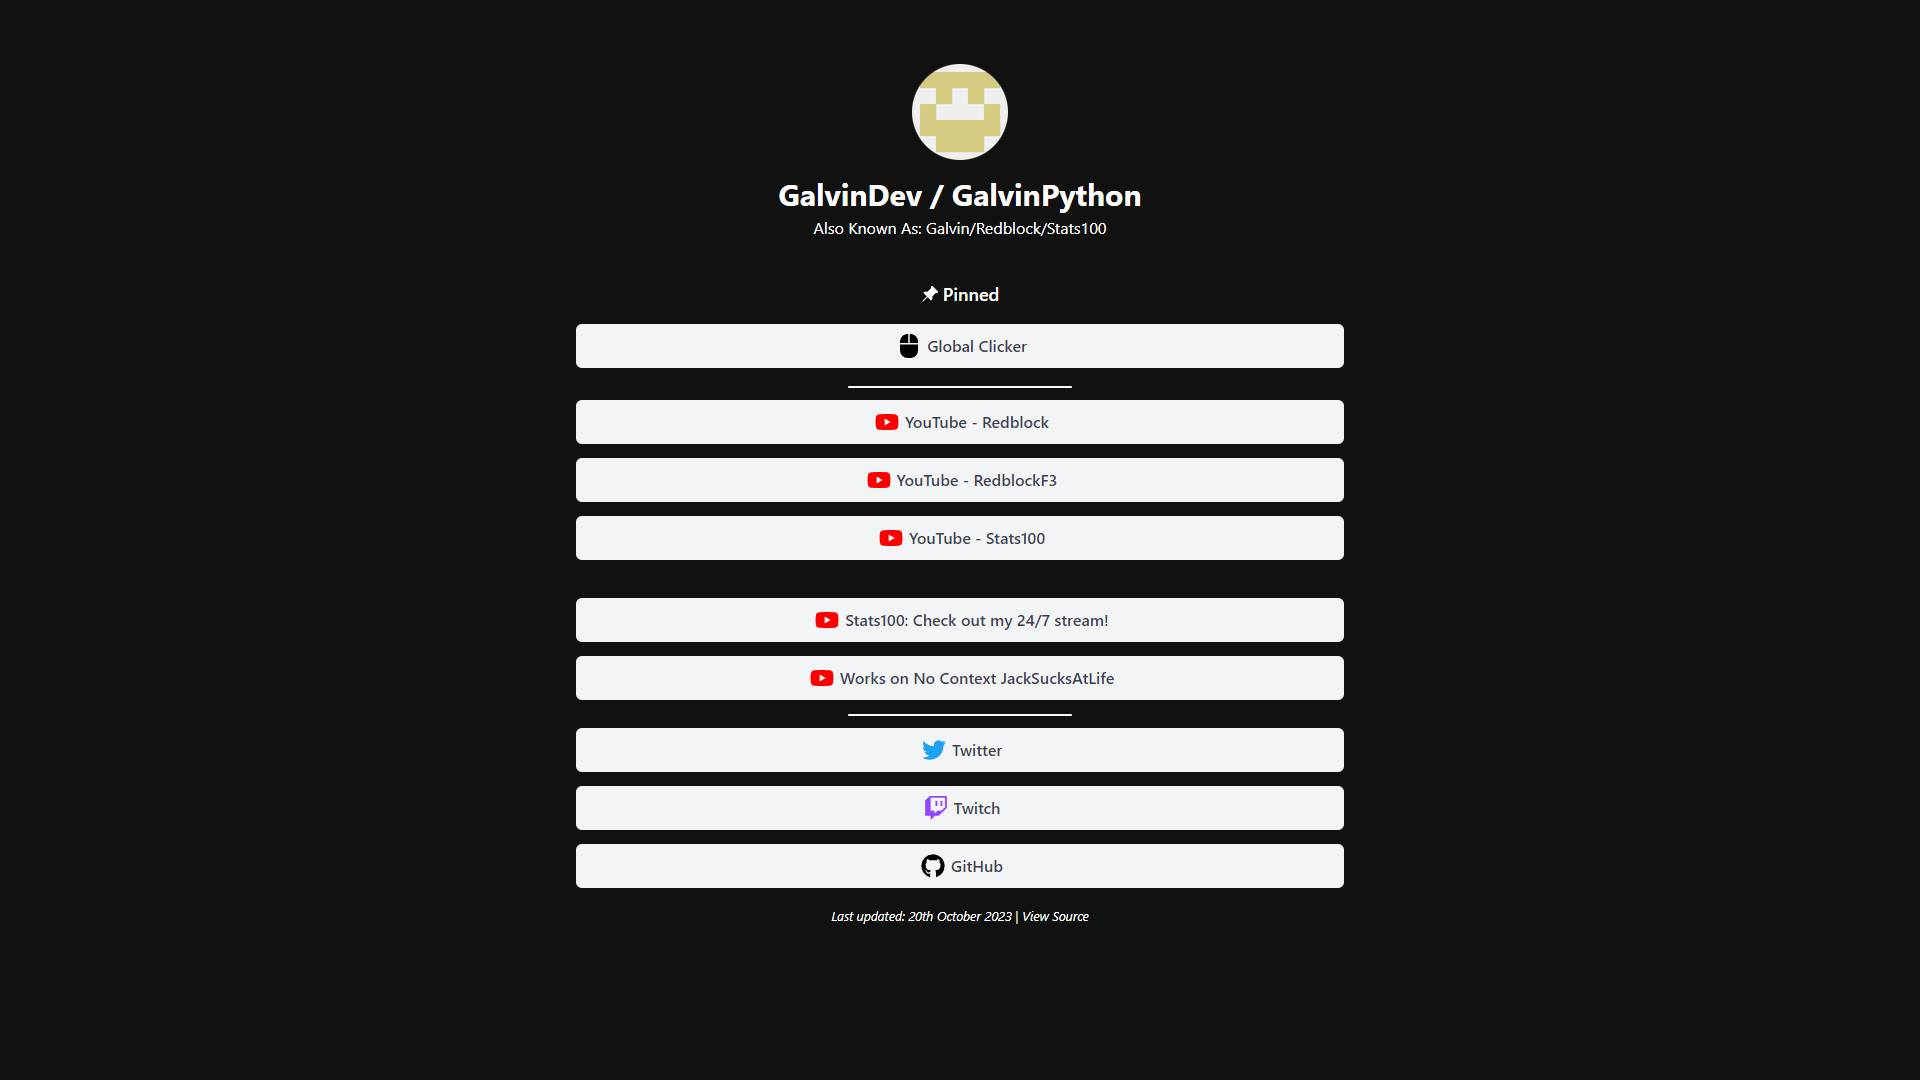
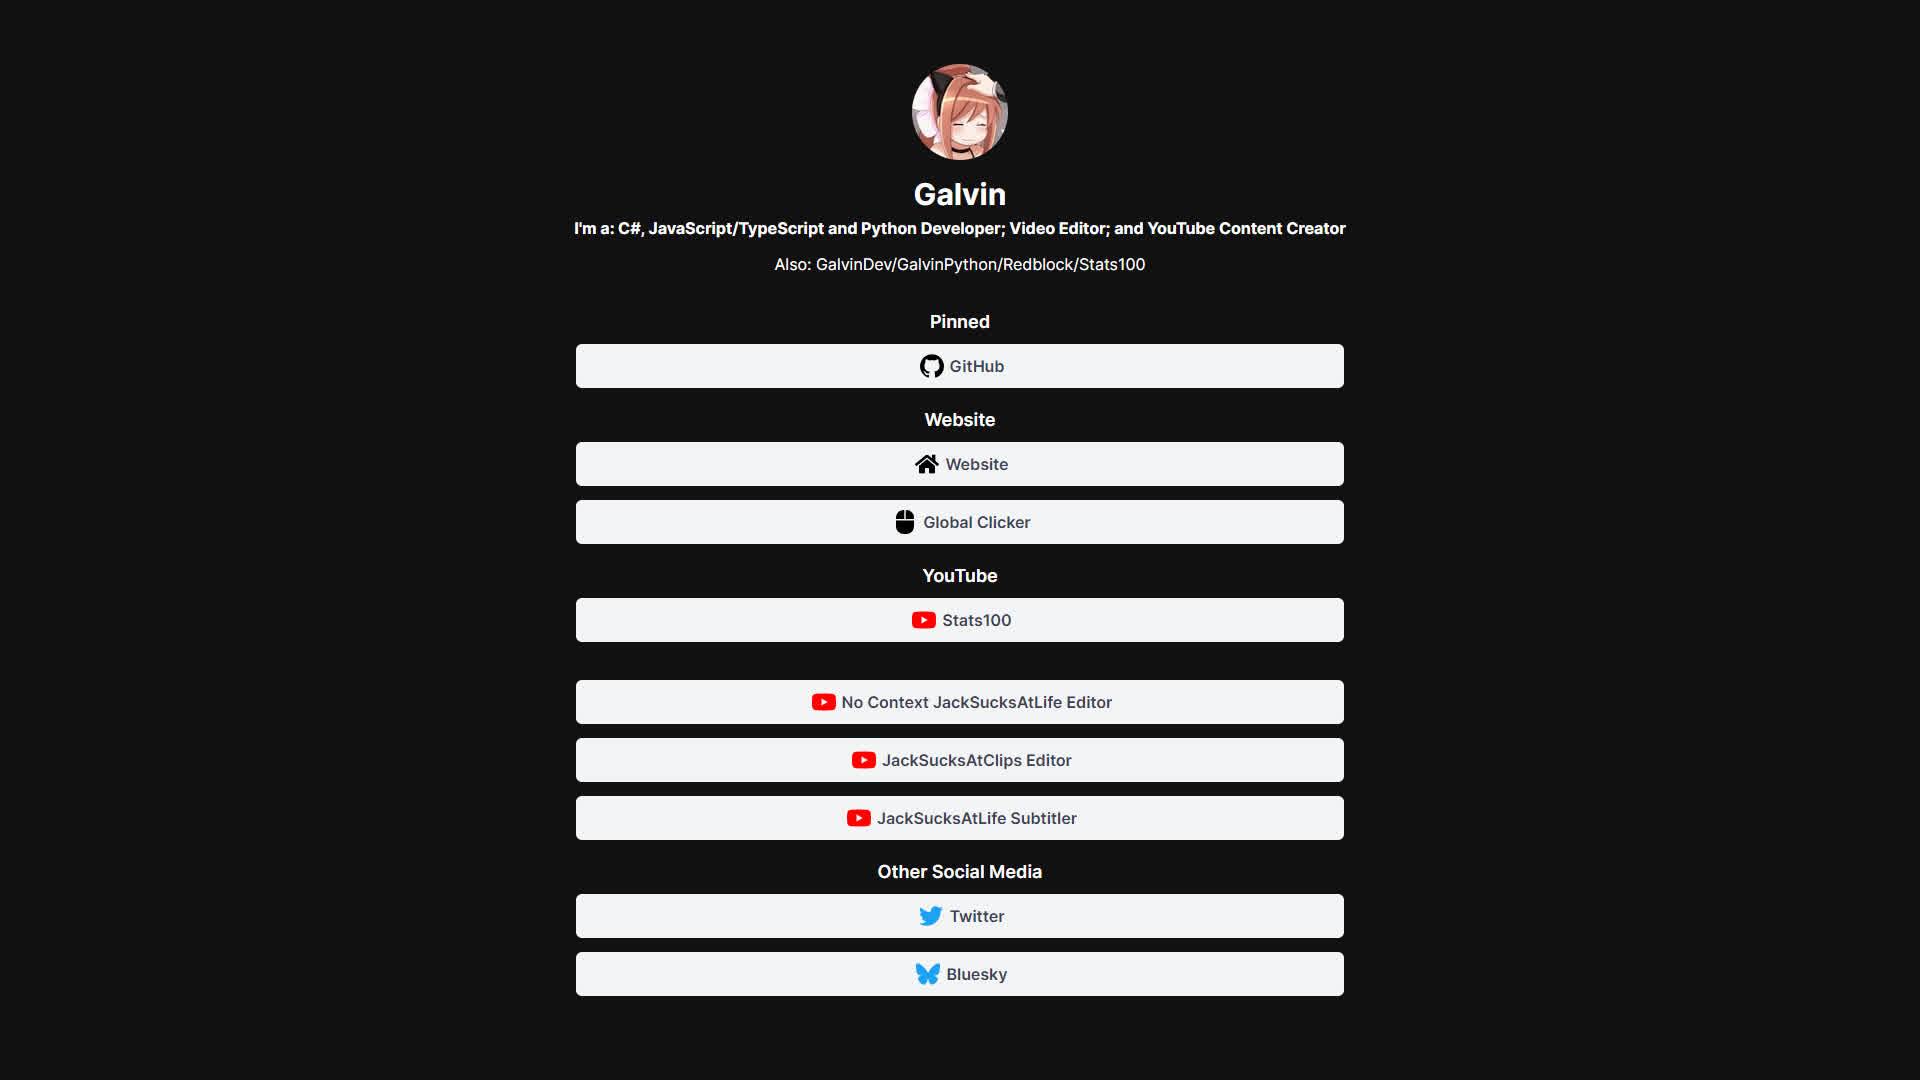
feat: changed site a bit
* Changed all Font Awesome icons to be Simple Icons where possible
* Titles are used instead of bold tags to seperate sections
* Updated profile image
* Added Bluesky icon
* Changed YouTube channels

Changed region(s): [[0.2812, 0.0611, 0.7188, 0.9472]]

diff --git a/README.md b/README.md
@@ -2,6 +2,13 @@
 Official GitHub repository for my [links site](https://links.galvindev.me.uk)  
 
 # Changelog
+## 21/05/2024 (2.0 Preview 3)
+* Changed all Font Awesome icons to be Simple Icons where possible
+* Titles are used instead of bold tags to seperate sections
+* Updated profile image
+* Added Bluesky icon
+* Changed YouTube channels
+
 ## 06/02/2024 (2.0 Preview 2)
 * Added Bluesky
 * Readded pinned section
